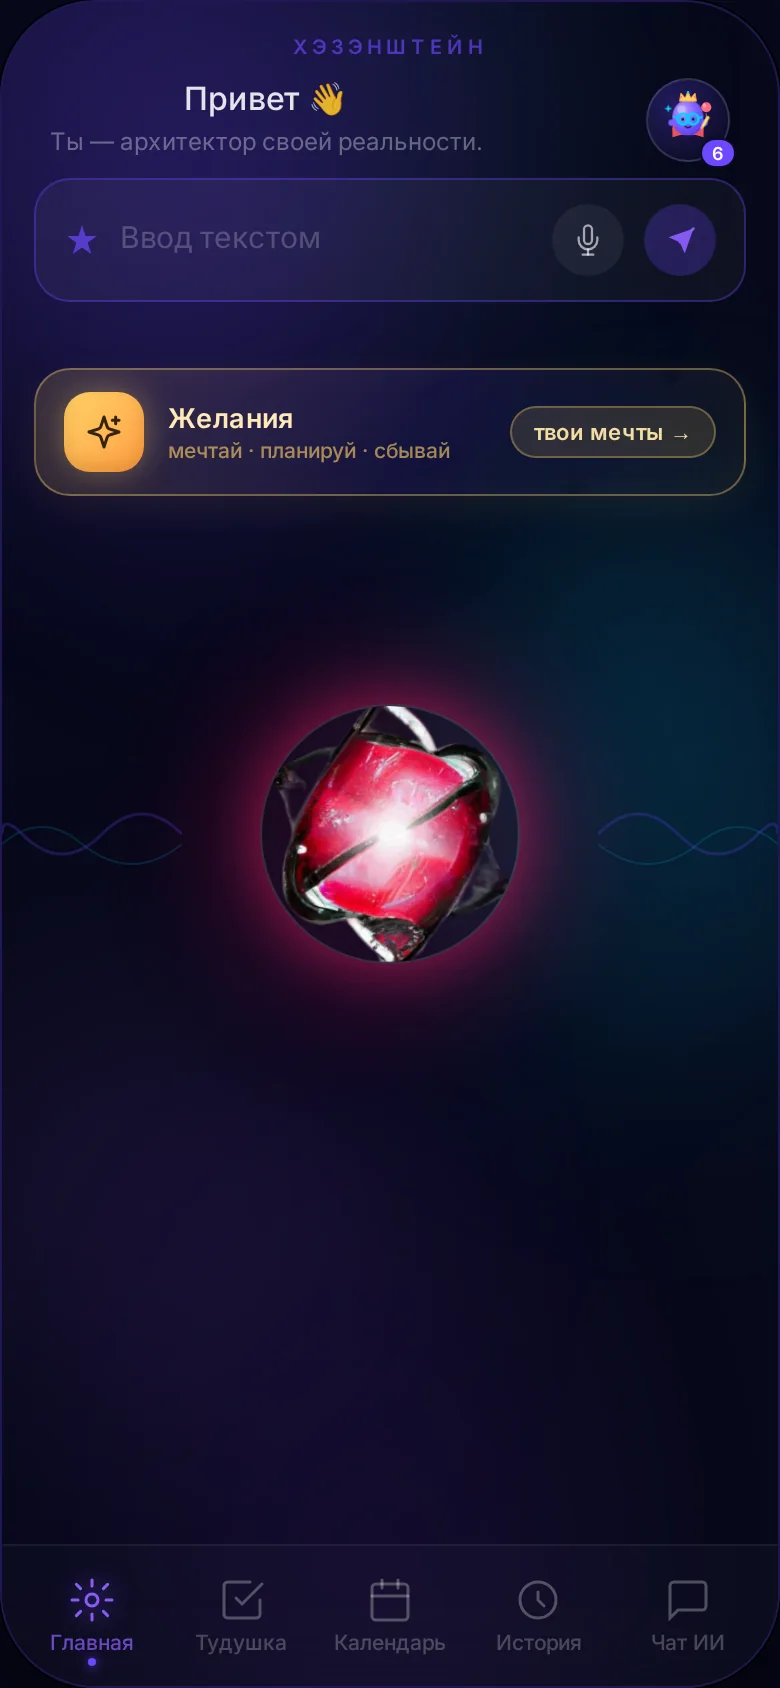
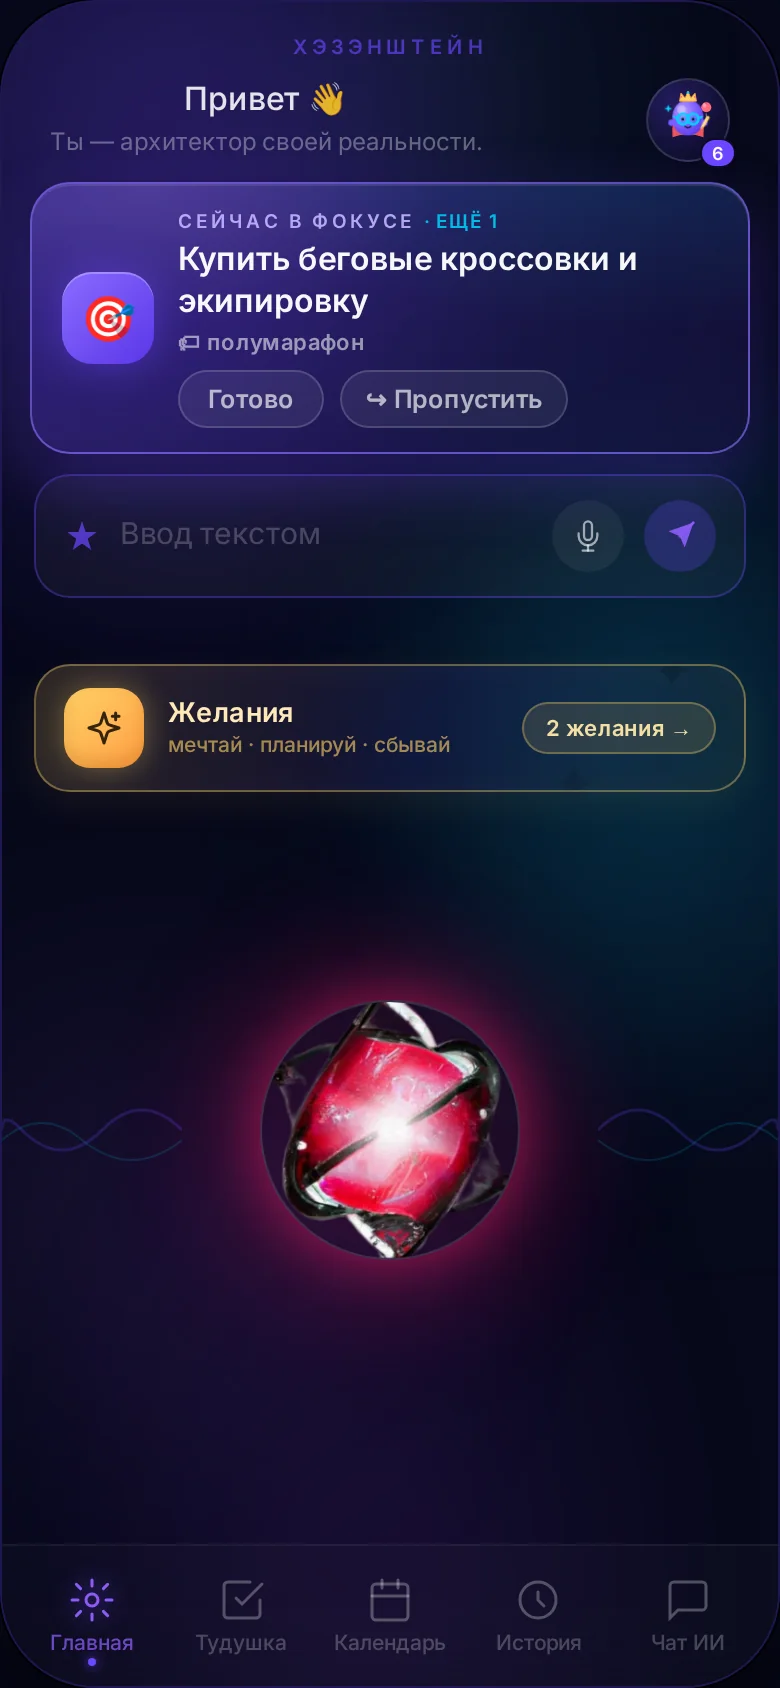
Хэзи-секция: инлайн-SVG стадий вместо плейсхолдеров HAZI_SVG_1..5 (герой, список 5 стадий, CTA) + CSS: карточки стадий, плавающий Хэзи в hero и CTA, адаптив; shot_main: пересъёмка с фокус-карточкой «Купить беговые кроссовки» и счётчиком «2 желания», скрыта AI-подсказка тегов

Changed region(s): [[0.0308, 0.0924, 0.9846, 0.3389], [0.0308, 0.3697, 0.9231, 0.8009]]

diff --git a/index.html b/index.html
@@ -68,7 +68,7 @@
         </ul>
       </div>
       <div class="hero-visual reveal">
-        <div class="hero-hazi" aria-hidden="true">HAZI_SVG_3</div>
+        <div class="hero-hazi" aria-hidden="true"><svg class="hazi-svg st3" viewBox="0 0 64 64" fill="none" xmlns="http://www.w3.org/2000/svg" aria-hidden="true" data-worn=""><defs><radialGradient id="hzG" cx="35%" cy="30%" r="80%"><stop offset="0%" stop-color="#B79CFF"/><stop offset="55%" stop-color="#7C5CFF"/><stop offset="100%" stop-color="#5A38E8"/></radialGradient><linearGradient id="hzCapeG" x1="0" y1="0" x2="0" y2="1"><stop offset="0%" stop-color="#FFD166"/><stop offset="100%" stop-color="#FF9F43"/></linearGradient></defs><g class="hz-a-sway"><path d="M32 13 C43.5 13 49.5 23.5 48.5 34 C47.6 45 41 50.5 32 50.5 C23 50.5 16.4 45 15.5 34 C14.5 23.5 20.5 13 32 13 Z" fill="url(#hzG)"/><circle cx="25" cy="23" r="4.6" fill="rgba(255,255,255,0.32)"/><circle cx="14.5" cy="37" r="3.4" fill="#7C5CFF"/><circle cx="49.5" cy="37" r="3.4" fill="#7C5CFF"/><g class="hz-eyes"><circle cx="26.5" cy="33" r="5.4" stroke="#00D4FF" stroke-width="1.7" fill="rgba(0,212,255,0.10)"/><circle cx="37.5" cy="33" r="5.4" stroke="#00D4FF" stroke-width="1.7" fill="rgba(0,212,255,0.10)"/><path d="M31.9 33 h1.2 M21.1 31.8 l-4.6 -1.4 M42.9 31.8 l4.6 -1.4" stroke="#00D4FF" stroke-width="1.5" stroke-linecap="round"/><circle cx="26.5" cy="33.4" r="1.5" fill="#060918"/><circle cx="37.5" cy="33.4" r="1.5" fill="#060918"/></g><g transform="rotate(30 49.5 38)"><rect x="47.8" y="29" width="3.4" height="13" rx="1" fill="#FFD166"/><path d="M47.8 42 l1.7 4.2 1.7 -4.2z" fill="#F4A261"/></g><path d="M29 41 q3 2.6 6 0" stroke="#060918" stroke-width="1.5" stroke-linecap="round" fill="none" opacity=".85"/></g><path class="hz-spark" d="M11 18 l1.1 2.8 2.8 1.1 -2.8 1.1 -1.1 2.8 -1.1 -2.8 -2.8 -1.1 2.8 -1.1z" fill="#00D4FF"/></svg></div>
         <figure class="phone hero-phone" id="heroPhone">
           <img src="assets/shot_main.webp" width="780" height="1688" alt="Главный экран: одна задача в фокусе, поле ввода мысли, желания" loading="eager" decoding="async">
           <span class="float-badge fb-1">+5 ⚡</span>
@@ -198,11 +198,11 @@
       <h2 class="reveal">Хэзи растёт <span class="grad-text">от твоих дел</span></h2>
       <p class="section-sub reveal">Искорка, которая вылупляется из первой мысли, проходит путь до Сверхчеловека. Каждый выполненный шаг — это ⚡ для него и для тебя. Уровень никогда не падает.</p>
       <div class="stages reveal" id="stages" role="list">
-        <div class="stage" role="listitem" data-name="Искорка" data-lvl="1–2"><span class="stage-svg">HAZI_SVG_1</span><b>Искорка</b><span class="stage-lvl">ур. 1–2</span></div>
-        <div class="stage" role="listitem" data-name="Комочек" data-lvl="3–4"><span class="stage-svg">HAZI_SVG_2</span><b>Комочек</b><span class="stage-lvl">ур. 3–4</span></div>
-        <div class="stage" role="listitem" data-name="Подмастерье" data-lvl="5–6"><span class="stage-svg">HAZI_SVG_3</span><b>Подмастерье</b><span class="stage-lvl">ур. 5–6</span></div>
-        <div class="stage" role="listitem" data-name="Герой" data-lvl="7–9"><span class="stage-svg">HAZI_SVG_4</span><b>Герой</b><span class="stage-lvl">ур. 7–9</span></div>
-        <div class="stage" role="listitem" data-name="Сверхчеловек" data-lvl="10"><span class="stage-svg">HAZI_SVG_5</span><b>Сверхчеловек</b><span class="stage-lvl">ур. 10</span></div>
+        <div class="stage" role="listitem" data-name="Искорка" data-lvl="1–2"><span class="stage-svg"><svg class="hazi-svg st1" viewBox="0 0 64 64" fill="none" xmlns="http://www.w3.org/2000/svg" aria-hidden="true" data-worn=""><defs><radialGradient id="hzG" cx="35%" cy="30%" r="80%"><stop offset="0%" stop-color="#B79CFF"/><stop offset="55%" stop-color="#7C5CFF"/><stop offset="100%" stop-color="#5A38E8"/></radialGradient><linearGradient id="hzCapeG" x1="0" y1="0" x2="0" y2="1"><stop offset="0%" stop-color="#FFD166"/><stop offset="100%" stop-color="#FF9F43"/></linearGradient></defs><g class="hz-a-pulse"><circle cx="32" cy="34" r="24" fill="rgba(124,92,255,0.13)"/><circle cx="32" cy="34" r="17" fill="url(#hzG)"/><circle cx="26" cy="27" r="3.6" fill="rgba(255,255,255,0.35)"/><g class="hz-eyes"><ellipse cx="26.5" cy="33" rx="2.7" ry="3.2" fill="#fff"/><ellipse cx="37.5" cy="33" rx="2.7" ry="3.2" fill="#fff"/><circle cx="27.2" cy="33.6" r="1.3" fill="#060918"/><circle cx="38.2" cy="33.6" r="1.3" fill="#060918"/></g><path d="M29 41 q3 2.6 6 0" stroke="#060918" stroke-width="1.5" stroke-linecap="round" fill="none" opacity=".85"/></g><path class="hz-spark" d="M10 17 l1.2 3 3 1.2 -3 1.2 -1.2 3 -1.2 -3 -3 -1.2 3 -1.2z" fill="#FFD166"/><path class="hz-spark s2" d="M53 13 l0.9 2.4 2.4 0.9 -2.4 0.9 -0.9 2.4 -0.9 -2.4 -2.4 -0.9 2.4 -0.9z" fill="#00D4FF"/></svg></span><b>Искорка</b><span class="stage-lvl">ур. 1–2</span></div>
+        <div class="stage" role="listitem" data-name="Комочек" data-lvl="3–4"><span class="stage-svg"><svg class="hazi-svg st2" viewBox="0 0 64 64" fill="none" xmlns="http://www.w3.org/2000/svg" aria-hidden="true" data-worn=""><defs><radialGradient id="hzG" cx="35%" cy="30%" r="80%"><stop offset="0%" stop-color="#B79CFF"/><stop offset="55%" stop-color="#7C5CFF"/><stop offset="100%" stop-color="#5A38E8"/></radialGradient><linearGradient id="hzCapeG" x1="0" y1="0" x2="0" y2="1"><stop offset="0%" stop-color="#FFD166"/><stop offset="100%" stop-color="#FF9F43"/></linearGradient></defs><g class="hz-a-bounce"><path d="M25 50 q0 4.5 -3.5 6" stroke="#5A38E8" stroke-width="4.6" stroke-linecap="round" fill="none"/><path d="M39 50 q0 4.5 3.5 6" stroke="#5A38E8" stroke-width="4.6" stroke-linecap="round" fill="none"/><path d="M32 13 C43.5 13 49.5 23.5 48.5 34 C47.6 45 41 50.5 32 50.5 C23 50.5 16.4 45 15.5 34 C14.5 23.5 20.5 13 32 13 Z" fill="url(#hzG)"/><circle cx="25" cy="23" r="4.6" fill="rgba(255,255,255,0.32)"/><circle cx="14.5" cy="37" r="3.4" fill="#7C5CFF"/><circle cx="49.5" cy="37" r="3.4" fill="#7C5CFF"/><g class="hz-eyes"><ellipse cx="26.5" cy="33" rx="2.7" ry="3.2" fill="#fff"/><ellipse cx="37.5" cy="33" rx="2.7" ry="3.2" fill="#fff"/><circle cx="27.2" cy="33.6" r="1.3" fill="#060918"/><circle cx="38.2" cy="33.6" r="1.3" fill="#060918"/></g><path d="M29 41 q3 2.6 6 0" stroke="#060918" stroke-width="1.5" stroke-linecap="round" fill="none" opacity=".85"/></g></svg></span><b>Комочек</b><span class="stage-lvl">ур. 3–4</span></div>
+        <div class="stage" role="listitem" data-name="Подмастерье" data-lvl="5–6"><span class="stage-svg"><svg class="hazi-svg st3" viewBox="0 0 64 64" fill="none" xmlns="http://www.w3.org/2000/svg" aria-hidden="true" data-worn=""><defs><radialGradient id="hzG" cx="35%" cy="30%" r="80%"><stop offset="0%" stop-color="#B79CFF"/><stop offset="55%" stop-color="#7C5CFF"/><stop offset="100%" stop-color="#5A38E8"/></radialGradient><linearGradient id="hzCapeG" x1="0" y1="0" x2="0" y2="1"><stop offset="0%" stop-color="#FFD166"/><stop offset="100%" stop-color="#FF9F43"/></linearGradient></defs><g class="hz-a-sway"><path d="M32 13 C43.5 13 49.5 23.5 48.5 34 C47.6 45 41 50.5 32 50.5 C23 50.5 16.4 45 15.5 34 C14.5 23.5 20.5 13 32 13 Z" fill="url(#hzG)"/><circle cx="25" cy="23" r="4.6" fill="rgba(255,255,255,0.32)"/><circle cx="14.5" cy="37" r="3.4" fill="#7C5CFF"/><circle cx="49.5" cy="37" r="3.4" fill="#7C5CFF"/><g class="hz-eyes"><circle cx="26.5" cy="33" r="5.4" stroke="#00D4FF" stroke-width="1.7" fill="rgba(0,212,255,0.10)"/><circle cx="37.5" cy="33" r="5.4" stroke="#00D4FF" stroke-width="1.7" fill="rgba(0,212,255,0.10)"/><path d="M31.9 33 h1.2 M21.1 31.8 l-4.6 -1.4 M42.9 31.8 l4.6 -1.4" stroke="#00D4FF" stroke-width="1.5" stroke-linecap="round"/><circle cx="26.5" cy="33.4" r="1.5" fill="#060918"/><circle cx="37.5" cy="33.4" r="1.5" fill="#060918"/></g><g transform="rotate(30 49.5 38)"><rect x="47.8" y="29" width="3.4" height="13" rx="1" fill="#FFD166"/><path d="M47.8 42 l1.7 4.2 1.7 -4.2z" fill="#F4A261"/></g><path d="M29 41 q3 2.6 6 0" stroke="#060918" stroke-width="1.5" stroke-linecap="round" fill="none" opacity=".85"/></g><path class="hz-spark" d="M11 18 l1.1 2.8 2.8 1.1 -2.8 1.1 -1.1 2.8 -1.1 -2.8 -2.8 -1.1 2.8 -1.1z" fill="#00D4FF"/></svg></span><b>Подмастерье</b><span class="stage-lvl">ур. 5–6</span></div>
+        <div class="stage" role="listitem" data-name="Герой" data-lvl="7–9"><span class="stage-svg"><svg class="hazi-svg st4" viewBox="0 0 64 64" fill="none" xmlns="http://www.w3.org/2000/svg" aria-hidden="true" data-worn=""><defs><radialGradient id="hzG" cx="35%" cy="30%" r="80%"><stop offset="0%" stop-color="#B79CFF"/><stop offset="55%" stop-color="#7C5CFF"/><stop offset="100%" stop-color="#5A38E8"/></radialGradient><linearGradient id="hzCapeG" x1="0" y1="0" x2="0" y2="1"><stop offset="0%" stop-color="#FFD166"/><stop offset="100%" stop-color="#FF9F43"/></linearGradient></defs><g class="hz-a-hero"><path class="hz-cape" d="M32 15 C47.5 15 54.5 28 53.5 38.5 C52.6 51 45 57.5 32 57.5 C19 57.5 11.4 51 10.5 38.5 C9.5 28 16.5 15 32 15 Z" fill="url(#hzCapeG)"/><path d="M32 13 C43.5 13 49.5 23.5 48.5 34 C47.6 45 41 50.5 32 50.5 C23 50.5 16.4 45 15.5 34 C14.5 23.5 20.5 13 32 13 Z" fill="url(#hzG)"/><circle cx="25" cy="23" r="4.6" fill="rgba(255,255,255,0.32)"/><path d="M21.5 29.5 h21 a2.4 2.4 0 0 1 2.4 2.4 v2.4 a3.4 3.4 0 0 1 -3.4 3.4 h-5 l-2.9 -2.2 -2.9 2.2 h-9.2 a3.4 3.4 0 0 1 -3.4 -3.4 v-2.4 a2.4 2.4 0 0 1 2.4 -2.4z" fill="#00D4FF" opacity="0.93"/><ellipse cx="27.2" cy="33.8" rx="2.3" ry="1.6" fill="#fff"/><ellipse cx="36.8" cy="33.8" rx="2.3" ry="1.6" fill="#fff"/><circle cx="27.6" cy="34" r="1" fill="#060918"/><circle cx="37.2" cy="34" r="1" fill="#060918"/><path d="M29 42 h6" stroke="#060918" stroke-width="1.6" stroke-linecap="round"/></g></svg></span><b>Герой</b><span class="stage-lvl">ур. 7–9</span></div>
+        <div class="stage" role="listitem" data-name="Сверхчеловек" data-lvl="10"><span class="stage-svg"><svg class="hazi-svg st5" viewBox="0 0 64 64" fill="none" xmlns="http://www.w3.org/2000/svg" aria-hidden="true" data-worn=""><defs><radialGradient id="hzG" cx="35%" cy="30%" r="80%"><stop offset="0%" stop-color="#B79CFF"/><stop offset="55%" stop-color="#7C5CFF"/><stop offset="100%" stop-color="#5A38E8"/></radialGradient><linearGradient id="hzCapeG" x1="0" y1="0" x2="0" y2="1"><stop offset="0%" stop-color="#FFD166"/><stop offset="100%" stop-color="#FF9F43"/></linearGradient></defs><g class="hz-a-float"><circle class="hz-aura" cx="32" cy="33" r="26.5" stroke="rgba(0,212,255,0.55)" stroke-width="1.1" stroke-dasharray="4 7" fill="none"/><circle class="hz-aura a2" cx="32" cy="33" r="21" stroke="rgba(255,209,102,0.5)" stroke-width="1" stroke-dasharray="2 6" fill="none"/><path d="M12 24 l4 5 -3 0.4 3.4 4.6" stroke="#FFD166" stroke-width="1.8" fill="none" stroke-linecap="round" stroke-linejoin="round" class="hz-bolt"/><path d="M52 22 l-4 5 3 0.4 -3.4 4.6" stroke="#FFD166" stroke-width="1.8" fill="none" stroke-linecap="round" stroke-linejoin="round" class="hz-bolt b2"/><path d="M32 13 C43.5 13 49.5 23.5 48.5 34 C47.6 45 41 50.5 32 50.5 C23 50.5 16.4 45 15.5 34 C14.5 23.5 20.5 13 32 13 Z" fill="url(#hzG)"/><circle cx="25" cy="23" r="4.6" fill="rgba(255,255,255,0.32)"/><path d="M22 29 h20 a2.2 2.2 0 0 1 2.2 2.2 v2.2 a3.2 3.2 0 0 1 -3.2 3.2 h-4.6 l-2.8 -2 -2.8 2 h-8.8 a3.2 3.2 0 0 1 -3.2 -3.2 v-2.2 a2.2 2.2 0 0 1 2.2 -2.2z" fill="#00D4FF" opacity="0.93"/><ellipse cx="27.4" cy="33" rx="2.2" ry="1.5" fill="#fff"/><ellipse cx="36.6" cy="33" rx="2.2" ry="1.5" fill="#fff"/><circle cx="27.8" cy="33.2" r="0.95" fill="#060918"/><circle cx="37" cy="33.2" r="0.95" fill="#060918"/><path d="M28.5 41.5 q3.5 3 7 0" stroke="#060918" stroke-width="1.5" stroke-linecap="round" fill="none"/></g><path class="hz-spark" d="M9 40 l1 2.6 2.6 1 -2.6 1 -1 2.6 -1 -2.6 -2.6 -1 2.6 -1z" fill="#FFD166"/><path class="hz-spark s2" d="M55 12 l1 2.6 2.6 1 -2.6 1 -1 2.6 -1 -2.6 -2.6 -1 2.6 -1z" fill="#00D4FF"/></svg></span><b>Сверхчеловек</b><span class="stage-lvl">ур. 10</span></div>
       </div>
       <div class="split hazi-more">
         <div class="split-copy">
@@ -337,7 +337,7 @@
   <section class="section cta-section" id="get">
     <div class="container">
       <div class="cta-card reveal">
-        <div class="cta-hazi" aria-hidden="true">HAZI_SVG_4</div>
+        <div class="cta-hazi" aria-hidden="true"><svg class="hazi-svg st4" viewBox="0 0 64 64" fill="none" xmlns="http://www.w3.org/2000/svg" aria-hidden="true" data-worn=""><defs><radialGradient id="hzG" cx="35%" cy="30%" r="80%"><stop offset="0%" stop-color="#B79CFF"/><stop offset="55%" stop-color="#7C5CFF"/><stop offset="100%" stop-color="#5A38E8"/></radialGradient><linearGradient id="hzCapeG" x1="0" y1="0" x2="0" y2="1"><stop offset="0%" stop-color="#FFD166"/><stop offset="100%" stop-color="#FF9F43"/></linearGradient></defs><g class="hz-a-hero"><path class="hz-cape" d="M32 15 C47.5 15 54.5 28 53.5 38.5 C52.6 51 45 57.5 32 57.5 C19 57.5 11.4 51 10.5 38.5 C9.5 28 16.5 15 32 15 Z" fill="url(#hzCapeG)"/><path d="M32 13 C43.5 13 49.5 23.5 48.5 34 C47.6 45 41 50.5 32 50.5 C23 50.5 16.4 45 15.5 34 C14.5 23.5 20.5 13 32 13 Z" fill="url(#hzG)"/><circle cx="25" cy="23" r="4.6" fill="rgba(255,255,255,0.32)"/><path d="M21.5 29.5 h21 a2.4 2.4 0 0 1 2.4 2.4 v2.4 a3.4 3.4 0 0 1 -3.4 3.4 h-5 l-2.9 -2.2 -2.9 2.2 h-9.2 a3.4 3.4 0 0 1 -3.4 -3.4 v-2.4 a2.4 2.4 0 0 1 2.4 -2.4z" fill="#00D4FF" opacity="0.93"/><ellipse cx="27.2" cy="33.8" rx="2.3" ry="1.6" fill="#fff"/><ellipse cx="36.8" cy="33.8" rx="2.3" ry="1.6" fill="#fff"/><circle cx="27.6" cy="34" r="1" fill="#060918"/><circle cx="37.2" cy="34" r="1" fill="#060918"/><path d="M29 42 h6" stroke="#060918" stroke-width="1.6" stroke-linecap="round"/></g></svg></div>
         <h2>Хэзи уже ждёт<br><span class="grad-text">первую твою мысль</span></h2>
         <p class="cta-sub">Открой на телефоне — и через минуту у тебя появится собственный Хэзи.</p>
         <div class="cta-row">

diff --git a/css/style.css b/css/style.css
@@ -780,3 +780,76 @@ h3 { font: 700 clamp(1.15rem, 2vw, 1.4rem)/1.3 var(--font-head); margin-bottom: 
     z-index: 60;
   }
 }
+
+
+/* ---------- Хэзи: инлайн-SVG (стадии, герой, CTA) ---------- */
+
+.hazi-svg { display: block; }
+
+.hero-hazi {
+  position: absolute;
+  top: -34px;
+  right: 4%;
+  width: clamp(84px, 9vw, 120px);
+  height: auto;
+  z-index: 2;
+  opacity: 0.95;
+  filter: drop-shadow(0 0 26px rgba(108, 71, 255, 0.5));
+  animation: haziFloat 6s ease-in-out infinite;
+  pointer-events: none;
+}
+.hero-hazi svg { width: 100%; height: auto; }
+
+@keyframes haziFloat {
+  0%, 100% { transform: translateY(0); }
+  50% { transform: translateY(-12px); }
+}
+
+.stages {
+  display: flex;
+  flex-wrap: wrap;
+  gap: 14px;
+  margin-top: 28px;
+}
+.stage {
+  flex: 1 1 150px;
+  min-width: 150px;
+  display: flex;
+  flex-direction: column;
+  align-items: center;
+  gap: 7px;
+  padding: 20px 12px 16px;
+  border: 1px solid var(--line);
+  border-radius: var(--radius);
+  background: var(--card);
+  transition: transform 0.25s ease, border-color 0.25s ease;
+}
+.stage:hover { transform: translateY(-4px); border-color: rgba(108, 71, 255, 0.55); }
+.stage-svg { width: 64px; height: 64px; display: grid; place-items: center; }
+.stage-svg svg { width: 64px; height: 64px; }
+.stage b { font: 700 0.95rem var(--font-head); color: var(--text); }
+.stage-lvl { font-size: 0.78rem; color: var(--muted); }
+
+.cta-card { position: relative; }
+.cta-hazi {
+  position: absolute;
+  top: -46px;
+  left: 50%;
+  transform: translateX(-50%);
+  width: 92px;
+  height: auto;
+  filter: drop-shadow(0 0 22px rgba(0, 212, 255, 0.45));
+  animation: haziFloat 7s ease-in-out infinite;
+  pointer-events: none;
+}
+.cta-hazi svg { width: 100%; height: auto; }
+
+@media (max-width: 960px) {
+  .hero-hazi { top: -18px; right: 2%; width: 76px; opacity: 0.85; }
+  .stage { flex: 1 1 44%; min-width: 140px; }
+}
+@media (max-width: 640px) {
+  .hero-hazi { display: none; }
+  .cta-hazi { width: 72px; top: -36px; }
+  .stage { flex: 1 1 100%; }
+}
